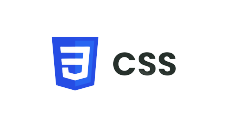
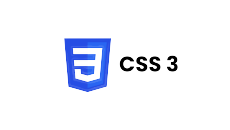
technologies

Changed region(s): [[0.213, 0.2769, 0.7913, 0.7077]]

diff --git a/src/staticData.js b/src/staticData.js
@@ -6,6 +6,14 @@ import tick from "@/images/tick.png";
 
 import tablet from "@/images/tablet.png";
 
+import css from "@/images/css.png";
+import html from "@/images/html.png";
+import javascript from "@/images/javascript.png";
+import laravel from "@/images/laravel.png";
+import nextjs from "@/images/nextjs.png";
+import python from "@/images/python.png";
+import react from "@/images/react.png";
+
 export const features = [
   {
     icon: secure,
@@ -163,5 +171,36 @@ export const featureBoxContents = [
     primaryFeature: "Unlimited edits done by us",
     secondaryFeature:
       "For 30 days after we launch your website, we remain on hand to make any edits you need. Just make a request through your website editor or via Live Chat in the Business Hub.",
+  },
+];
+
+export const technologies = [
+  {
+    image: html,
+    label: "HTML 5",
+  },
+  {
+    image: css,
+    label: "CSS 3",
+  },
+  {
+    image: javascript,
+    label: "Java Script",
+  },
+  {
+    image: react,
+    label: "React JS",
+  },
+  {
+    image: nextjs,
+    label: "NextJS 13",
+  },
+  {
+    image: python,
+    label: "Python",
+  },
+  {
+    image: laravel,
+    label: "Laravel",
   },
 ];

diff --git a/src/components/Technologies/Technologies.jsx b/src/components/Technologies/Technologies.jsx
@@ -1,3 +1,4 @@
+import { technologies } from "@/staticData";
 import Container from "../Container/Container";
 import Headers from "../Headers/Headers";
 import Tech from "./Tech/Tech";
@@ -8,8 +9,8 @@ const Technologies = () => {
     <div className={styles.techs}>
       <Container>
         <Headers
-          primaryHeader={"Technologies we use"}
-          secondaryHeader={"top clients"}
+          primaryHeader={"We are limitless in terms of technology"}
+          secondaryHeader={"our wings"}
         />
         <p className={styles.techsText}>
           TATAMAX Solutions has grown into an international contestant in
@@ -17,14 +18,9 @@ const Technologies = () => {
           expertise in all areas needed for reliable software development.
         </p>
         <div className={styles.techsContent}>
-          <Tech />
-          <Tech />
-          <Tech />
-          <Tech />
-          <Tech />
-          <Tech />
-          <Tech />
-          <Tech />
+          {technologies.map((technology, indx) => (
+            <Tech technology={technology} key={indx} />
+          ))}
         </div>
       </Container>
     </div>

diff --git a/src/app/page.jsx b/src/app/page.jsx
@@ -25,10 +25,6 @@ export default function Home() {
           </Section>
 
           <Section>
-            <Vision />
-          </Section>
-
-          <Section>
             <Headers
               center
               XLHeader={"Website built in 7 days. By experts, for you."}
@@ -46,6 +42,10 @@ export default function Home() {
               <Button label={"get started"} primary medium />
               <Button label={"whats included?"} medium />
             </div>
+          </Section>
+
+          <Section>
+            <Vision />
           </Section>
 
           {/* Services Section */}

diff --git a/src/components/Technologies/Tech/Tech.jsx b/src/components/Technologies/Tech/Tech.jsx
@@ -1,11 +1,14 @@
 import Image from "next/image";
 import styles from "./Tech.module.css";
-import demo from "@/images/css.png";
 
-const Tech = () => {
+const Tech = ({ technology }) => {
   return (
     <div className={styles.tech}>
-      <Image src={demo} alt="" className={styles.techImage} />
+      <Image
+        src={technology.image}
+        alt={technology.label}
+        className={styles.techImage}
+      />
     </div>
   );
 };

diff --git a/src/components/Navbar/Logo/Logo.module.css b/src/components/Navbar/Logo/Logo.module.css
@@ -1,11 +1,20 @@
+.logoWrapper {
+  line-height: 1;
+  user-select: none;
+}
+
 .logo {
   text-transform: uppercase;
-  letter-spacing: 10px;
-  user-select: none;
+  letter-spacing: 6px;
   cursor: pointer;
   transition: all 0.4s cubic-bezier(0.175, 0.885, 0.32, 1.275);
 }
 
 .logo:hover {
-  letter-spacing: 15px;
+  letter-spacing: 10px;
+}
+
+.slogan {
+  font-size: 12px;
+  color: var(--dark-variant);
 }

diff --git a/src/components/Navbar/Logo/Logo.jsx b/src/components/Navbar/Logo/Logo.jsx
@@ -6,9 +6,10 @@ const Logo = () => {
   const router = useRouter();
 
   return (
-    <h2 className={styles.logo} onClick={() => router.push("/")}>
-      tatamax
-    </h2>
+    <div className={styles.logoWrapper} onClick={() => router.push("/")}>
+      <h2 className={styles.logo}>tatamax</h2>
+      <p className={styles.slogan}>You demand, We develop</p>
+    </div>
   );
 };
 

diff --git a/src/components/Hero/Hero.module.css b/src/components/Hero/Hero.module.css
@@ -23,9 +23,9 @@
   font-weight: 400;
   font-size: 30px;
   line-height: 44px;
-  letter-spacing: 1px;
+  letter-spacing: -0.5px;
   color: var(--dark-variant);
   mix-blend-mode: normal;
   margin: 60px 0 80px 0;
-  max-width: 60%;
+  max-width: 70%;
 }
